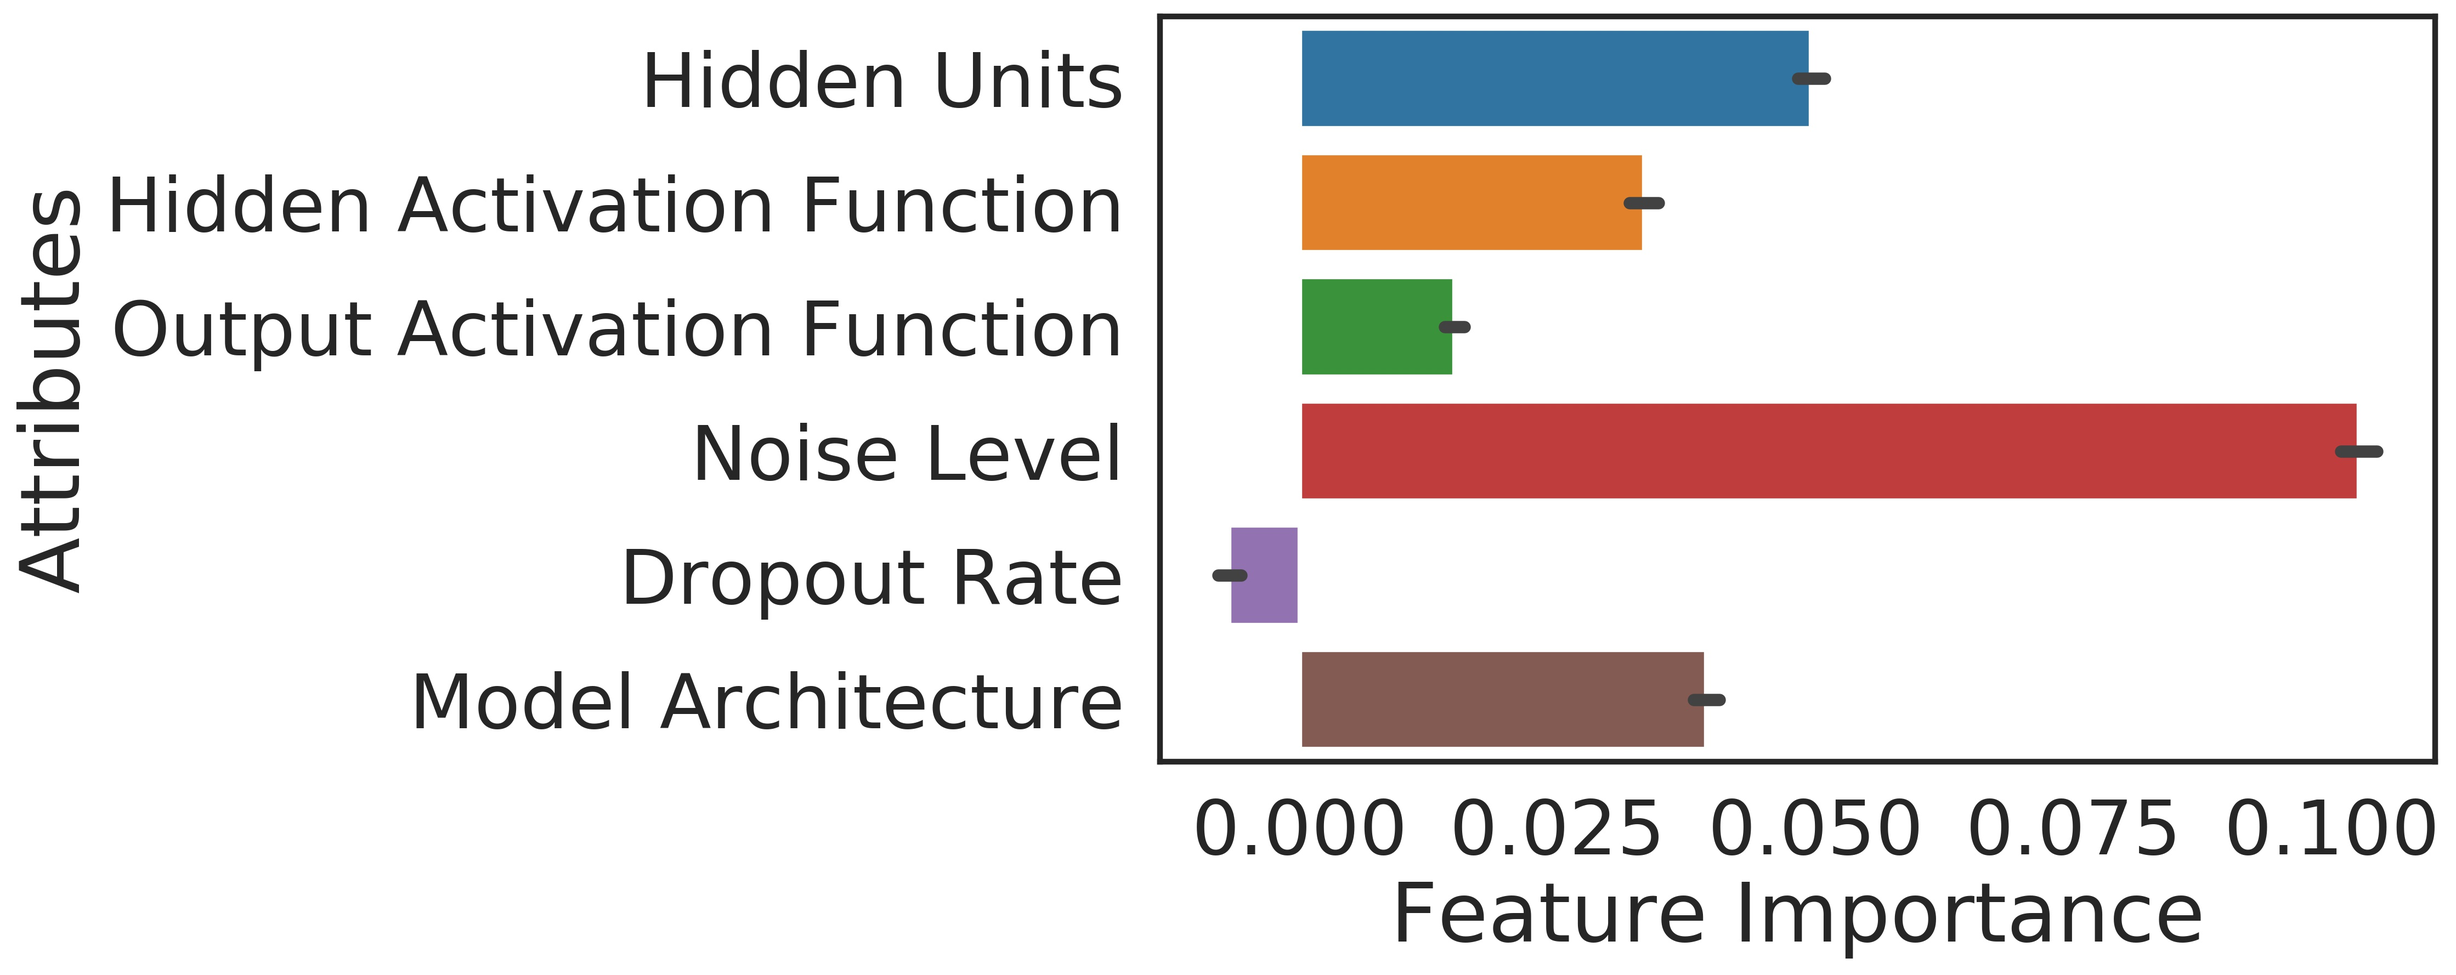
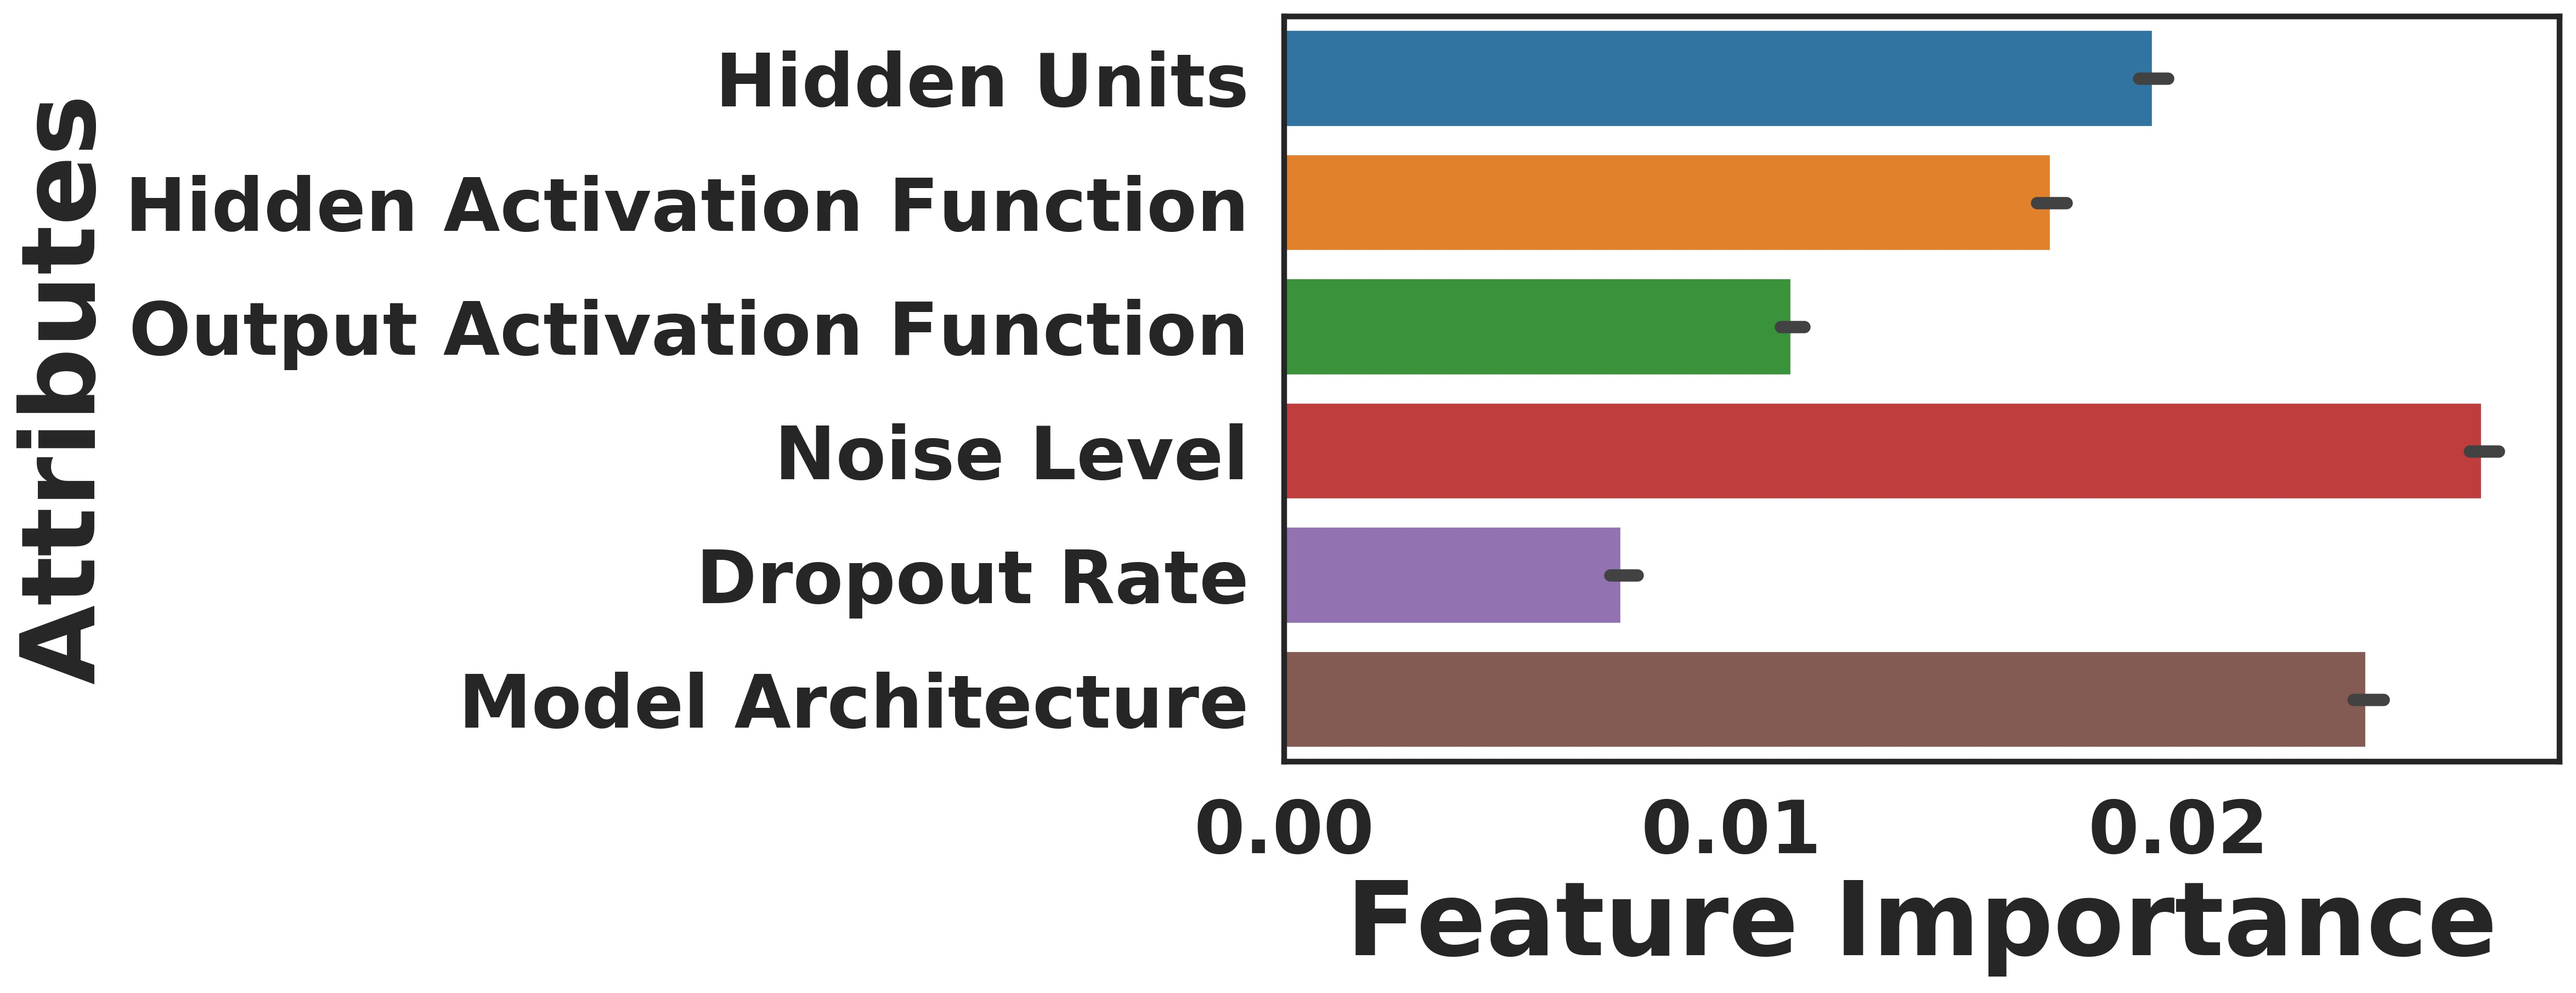
update

Changed region(s): [[0.0, 0.0, 1.0, 0.9899], [0.4656, 0.0, 0.4967, 0.0309]]

diff --git a/scripts/4.3.post_stats.py b/scripts/4.3.post_stats.py
@@ -85,6 +85,7 @@ for col in col_indp:
 df_stat = {name:[] for name in col_indp}
 df_stat['CNN_performance'] = []
 df_stat['SVM_performance'] = []
+df_stat['CNN_chance_performance']= []
 df_stat['CNN_pval'] = []
 df_stat['SVM_pval'] = []
 for attri,df_sub in tqdm(df_picked.groupby(col_indp),desc='generate features'):
@@ -95,65 +96,80 @@ for attri,df_sub in tqdm(df_picked.groupby(col_indp),desc='generate features'):
         # df_stat['SVM_performance'].append(0)
         # df_stat['SVM_pval'].append(1)
         pass
-    elif df_sub.shape[0] == > 1:
+    elif df_sub.shape[0] > 1:
         for model,df_sub_sub in df_sub.groupby('model'):
             if model == 'CNN':
                 [df_stat[col].append(df_sub[col].values[0]) for col in col_indp]
-                df_stat['CNN_performance'].append(df_sub['score_mean'].values[0])
-                df_stat['CNN_pval'].append(df_sub['pval'].values[0])
-                j = df_sub[df_sub['model'] == 'linear-SVM']
-                df_stat['SVM_performance'].append(j['score_mean'].values[0])
-                df_stat['SVM_pval'].append(j['pval'].values[0])
+                df_stat['CNN_performance'].append(df_sub_sub['score_mean'].values[0])
+                df_stat['CNN_pval'].append(df_sub_sub['pval'].values[0])
+                df_stat['CNN_chance_performance'].append(df_sub_sub['chance_mean'].values[0])
+                
             elif model == 'linear-SVM':
-                pass
+                df_stat['SVM_performance'].append(df_sub_sub['score_mean'].values[0])
+                df_stat['SVM_pval'].append(df_sub_sub['pval'].values[0])
     else:
         print('what?')
 df_stat = pd.DataFrame(df_stat)
 df_stat.to_csv(os.path.join(paper_dir,
                             'CNN_SVM_stats.csv'),index = False)
 
-df_poor = df_stat[np.logical_and(df_stat['CNN_performance'].values > 0.5,
-                                 df_stat['CNN_pval'].values < 0.05)]
-a = df_stat['SVM_performance'].values
-b = df_stat['CNN_performance'].values
-diff = a - b
-t = diff.mean()
-null = diff - diff.mean()
-null_dist = np.array([np.random.choice(null,size=diff.shape[0],replace = True).mean() for _ in tqdm(range(int(1e5)))])
-p = ((np.sum(null_dist >= t)) + 1) /(null_dist.shape[0] + 1)
+df_chance = df_stat[np.logical_or(
+                        df_stat['CNN_pval'] > 0.05,
+                        df_stat['CNN_performance'] < df_stat['CNN_chance_performance'])
+                    ]
 
-fig,axes = plt.subplots(figsize = (24,12),ncols = 2)
-ax = axes[0]
-df_temp = pd.DataFrame(diff.reshape(-1,1),columns = ['SVM - CNN'])
-df_temp['x'] = 0
-ax = sns.violinplot(x = 'x',
-                    y = 'SVM - CNN',
-                    data = df_temp,
-                    cut = 0,
-                    inner = 'quartile',
-                    ax = ax,
-                    )
-ax.axhline(0,linestyle = '--',color = 'black',alpha = 0.6)
-ax.set_xlabel('');ax.set_xticklabels([])
-ax = axes[1]
-from collections import Counter
-temp = dict(Counter(df_stat['SVM_pval'] < 0.05))
-ax.bar(0,temp[True]/np.sum(list(temp.values())),color = 'green',)
-ax.bar(1,temp[False]/np.sum(list(temp.values())),color = 'red')
-ax.set(xticks = [0,1],ylabel = 'Proportion')
-ax.set_xticklabels(['p < 0.05','p >= 0.05'])
-fig.savefig(os.path.join(paper_dir,'diff of SVM and CNN.jpeg'),
-            dpi = 300,
-            bbox_inches = 'tight')
+# df_poor = df_stat[np.logical_and(df_stat['CNN_performance'].values > 0.5,
+#                                  df_stat['CNN_pval'].values < 0.05)]
+# a = df_stat['SVM_performance'].values
+# b = df_stat['CNN_performance'].values
+# diff = a - b
+# t = diff.mean()
+# null = diff - diff.mean()
+# null_dist = np.array([np.random.choice(null,size=diff.shape[0],replace = True).mean() for _ in tqdm(range(int(1e5)))])
+# p = ((np.sum(null_dist >= t)) + 1) /(null_dist.shape[0] + 1)
+
+# fig,axes = plt.subplots(figsize = (24,12),ncols = 2)
+# ax = axes[0]
+# df_temp = pd.DataFrame(diff.reshape(-1,1),columns = ['SVM - CNN'])
+# df_temp['x'] = 0
+# ax = sns.violinplot(x = 'x',
+#                     y = 'SVM - CNN',
+#                     data = df_temp,
+#                     cut = 0,
+#                     inner = 'quartile',
+#                     ax = ax,
+#                     )
+# ax.axhline(0,linestyle = '--',color = 'black',alpha = 0.6)
+# ax.set_xlabel('');ax.set_xticklabels([])
+# ax = axes[1]
+# from collections import Counter
+# temp = dict(Counter(df_stat['SVM_pval'] < 0.05))
+# ax.bar(0,temp[True]/np.sum(list(temp.values())),color = 'green',)
+# ax.bar(1,temp[False]/np.sum(list(temp.values())),color = 'red')
+# ax.set(xticks = [0,1],ylabel = 'Proportion')
+# ax.set_xticklabels(['p < 0.05','p >= 0.05'])
+# fig.savefig(os.path.join(paper_dir,'diff of SVM and CNN.jpeg'),
+#             dpi = 300,
+#             bbox_inches = 'tight')
 # ax.set_ylabel('ROC AUC')
 # ax.get_legend().set_title("")
 # for obj,text in zip(ax.get_legend().get_texts(),['SVM decoding performance','CNN performance']):
 #     obj.set_text(text)
 
-df_chance = df_stat[df_stat['CNN_pval'] > 0.05]
+ps = {'chance_all':0,
+      'chance_high':0}
 df_chance['diff'] = df_chance['SVM_performance'].values - df_chance['CNN_performance'].values
 df_chance['labels'] = df_chance['SVM_pval'].apply(lambda x: x < 0.05)
 df_j= df_chance[df_chance['noise_level'] >= np.median(noise_levels)]
+
+a = df_chance['SVM_performance'].values
+b = df_chance['CNN_performance'].values
+diff = a - b
+t = diff.mean()
+null = diff - diff.mean()
+null_dist = np.array([np.random.choice(null,size=diff.shape[0],replace = True).mean() for _ in tqdm(range(int(1e5)))])
+p = ((np.sum(null_dist >= t)) + 1) /(null_dist.shape[0] + 1)
+ps['chance_all'] = p
 
 a = df_j['SVM_performance'].values
 b = df_j['CNN_performance'].values
@@ -162,15 +178,54 @@ t = diff.mean()
 null = diff - diff.mean()
 null_dist = np.array([np.random.choice(null,size=diff.shape[0],replace = True).mean() for _ in tqdm(range(int(1e5)))])
 p = ((np.sum(null_dist >= t)) + 1) /(null_dist.shape[0] + 1)
+ps['chance_high'] = p
 
 fig,axes = plt.subplots(figsize = (24,12),ncols = 2)
 ax = axes[0]
+a = df_chance['SVM_performance'].values
+b = df_chance['CNN_performance'].values
+diff = a - b
 df_temp = pd.DataFrame(diff.reshape(-1,1),columns = ['SVM - CNN'])
 df_temp['x'] = 0
+df_temp['noise_level'] = df_chance['noise_level'].values
+df_temp['p < 0.05'] = df_chance['SVM_pval'].values < 0.05
+ax = sns.violinplot(x = 'x',
+                    y = 'SVM - CNN',
+                    # hue = 'p < 0.05',
+                    data = df_temp,
+                    split = True, 
+                    cut = 0,
+                    inner = 'quartile',
+                    ax = ax,
+                    )
+ax.axhline(0,linestyle = '--',color = 'black',alpha = 0.6)
+ax.set_xlabel('');ax.set_xticklabels([])
+ax = axes[1]
+from collections import Counter
+temp = dict(Counter(df_chance['SVM_pval'] < 0.05))
+ax.bar(0,temp[True]/np.sum(list(temp.values())),color = 'green',)
+ax.bar(1,temp[False]/np.sum(list(temp.values())),color = 'red')
+ax.set(xticks = [0,1],ylabel = 'Proportion')
+ax.set_xticklabels(['p < 0.05','p >= 0.05'])
+fig.savefig(os.path.join(paper_dir,'CNN chance noise high.jpeg'),
+            dpi = 400,
+            bbox_inches = 'tight')
+fig.savefig(os.path.join(figure_dir,'CNN chance noise high.jpeg'),
+            dpi = 400,
+            bbox_inches = 'tight')
+
+fig,axes = plt.subplots(figsize = (24,12),ncols = 2)
+ax = axes[0]
+a = df_j['SVM_performance'].values
+b = df_j['CNN_performance'].values
+diff = a - b
+df_temp = pd.DataFrame(diff.reshape(-1,1),columns = ['SVM - CNN'])
+df_temp['x'] = 0
+df_temp['noise_level'] = df_j['noise_level'].values
 df_temp['p < 0.05'] = df_j['SVM_pval'].values < 0.05
 ax = sns.violinplot(x = 'x',
                     y = 'SVM - CNN',
-                    hue = 'p < 0.05',
+                    # hue = 'p < 0.05',
                     data = df_temp,
                     split = True, 
                     cut = 0,
@@ -192,7 +247,6 @@ fig.savefig(os.path.join(paper_dir,'CNN chance noise high.jpeg'),
 fig.savefig(os.path.join(figure_dir,'CNN chance noise high.jpeg'),
             dpi = 400,
             bbox_inches = 'tight')
-
 sns.relplot(x = 'noise_level',y = 'diff',hue = 'labels',data = df_chance)
 
 
@@ -221,8 +275,8 @@ features = df_chance[col_features].values
 X,y = sk_shuffle(features,labels)
 
 cv = StratifiedShuffleSplit(n_splits = 100,test_size = 0.2, random_state = 12345)
-rf = RandomForestClassifier(random_state = 12345,class_weight = 'balanced')
-logit = LogisticRegression(random_state = 12345,class_weight = 'balanced')
+rf = RandomForestClassifier(random_state = 12345,class_weight = 'balanced',n_jobs = 1)
+# logit = LogisticRegression(random_state = 12345,class_weight = 'balanced')
 pipeline = make_pipeline(preprocessing.StandardScaler(),
                          rf)
 cross_res = cross_validate(pipeline,
@@ -259,12 +313,14 @@ df_plot['Attributes'] = df_plot['Attributes'].map({'hidden_units':'Hidden Units'
                                                      'model_names':'Model Architecture'})
 fig,ax = plt.subplots(figsize = (10,6))
 ax = sns.barplot(y = 'Attributes',x = 'Feature Importance',data= df_plot,ax = ax)
+df_plot.to_csv(os.path.join(paper_dir.replace('figures','stats'),
+                            'feature_importance.csv'),index=False)
 fig.savefig(os.path.join(figure_dir,'feature importance.jpeg'),dpi = 300,bbox_inches = 'tight')
 
 from collections import Counter
 from scipy import stats
 x = np.linspace(0, 1, 1000)
-alpha,beta = .1,2
+alpha,beta = 1.1,1.1
 aspects = {'hidden_units':.0025,
         'hidden_activation':.003,
         'output_activation':.001,

diff --git a/scripts/4.4.plot_stability.py b/scripts/4.4.plot_stability.py
@@ -61,11 +61,14 @@ df = dict(noise_level = [],
           RDM_max = [],
           RDM_min = [],
           )
-for ii,(_score,_RDM,) in tqdm(enumerate(zip(scores,RDMs))):
+for ii,(_score,_RDM,_feature,_label) in tqdm(enumerate(zip(scores,RDMs,features,labels))):
     noise_level = float(_RDM.split('/')[-1].split('_')[-1].replace('.npy',''))
     
     score = np.load(_score)
     RDM = np.load(_RDM)
+    feature = np.load(_feature)
+    label = np.load(_label)
+    
     
     df['noise_level'].append(noise_level)
     df['score_mean'].append(score.mean())
@@ -111,7 +114,10 @@ ax.set(ylim = (0.4,1.2),
        ylabel = '1 - cosine')
 ax2.set(ylim = (0.4,1.2),
         ylabel = 'ROC AUC')
-
+fig.savefig(os.path.join(paper_dir,
+                         'CNN_stability.jpeg'),
+            dpi = 400,
+            bbox_inches = 'tight')
 
 
 
